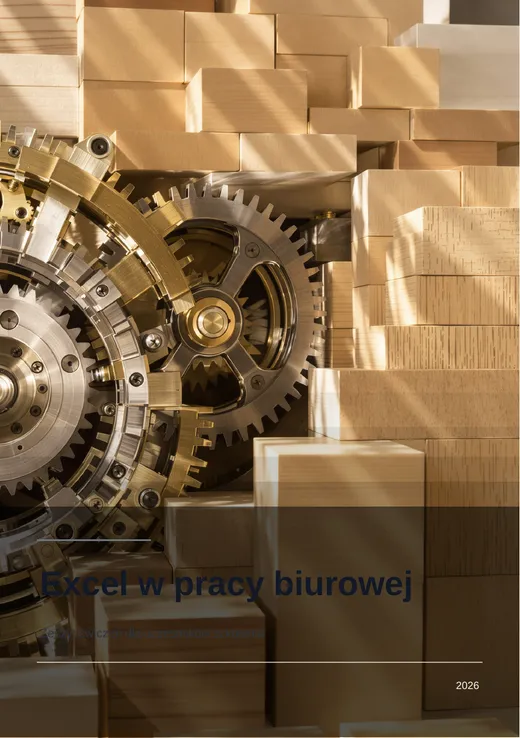
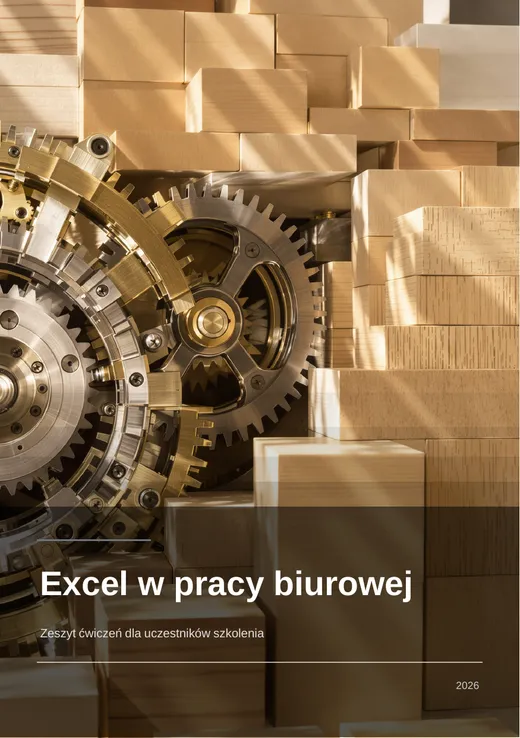
Zeszyt ćwiczeń z Excela PL/EN: poprawione PDF-y (formuły, okładka, odstępy ćwiczeń)

Changed region(s): [[0.0615, 0.748, 0.8, 0.8726], [0.8923, 0.9038, 0.9231, 0.935]]

diff --git a/site/src/data/examples.js b/site/src/data/examples.js
@@ -245,7 +245,7 @@ export const examples = [
     lang: "pl",
     category: "tech",
     style: "Minimal",
-    pages: 57,
+    pages: 60,
     desc: {
       pl: "Materiał dla kursantów: 30 ćwiczeń krok po kroku, od formatowania tabel przez JEŻELI i WYSZUKAJ.PIONOWO po tabele przestawne, z rozwiązaniami.",
       en: "Workbook for training participants: 30 step-by-step exercises, from table formatting through IF and VLOOKUP to pivot tables, with solutions (in Polish).",
